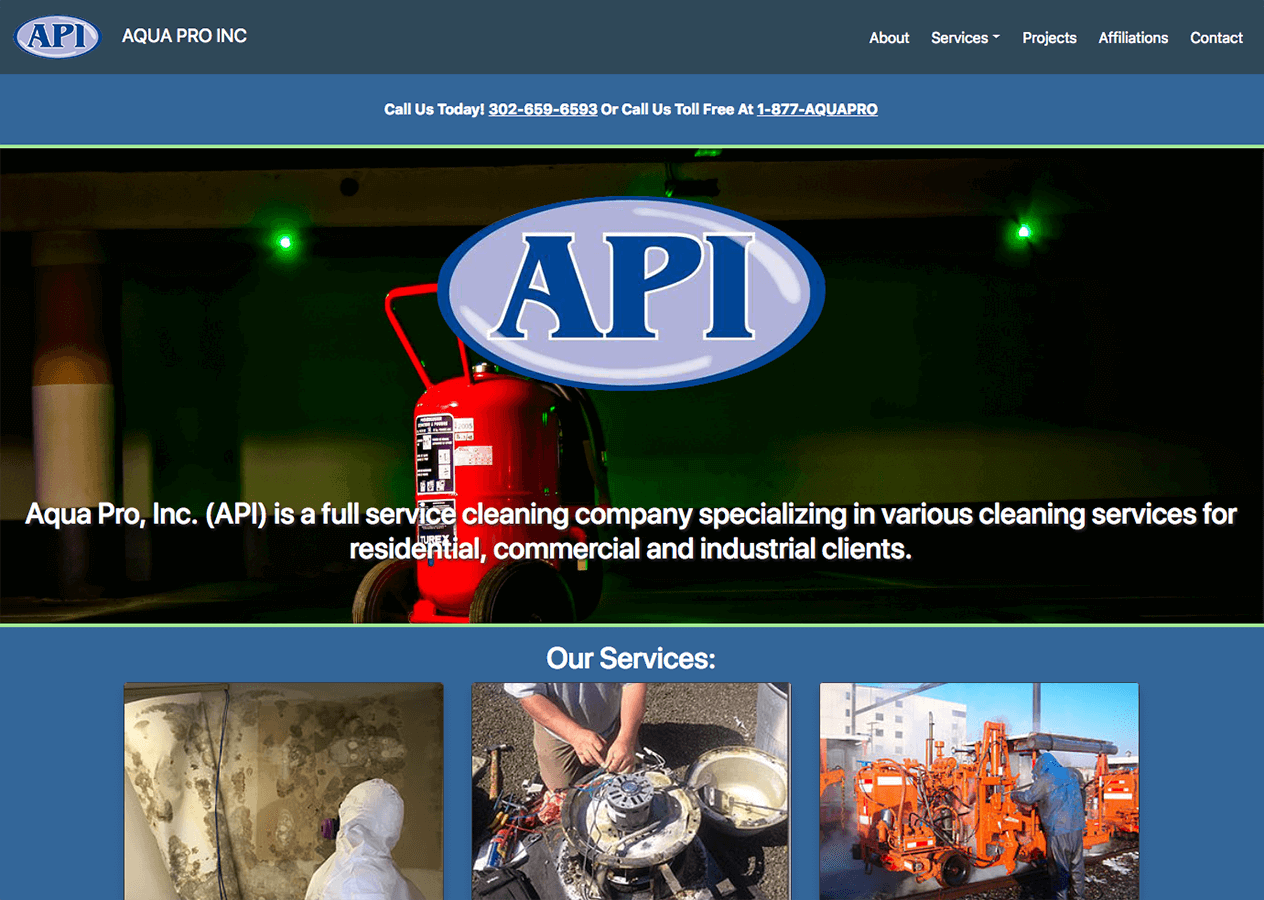
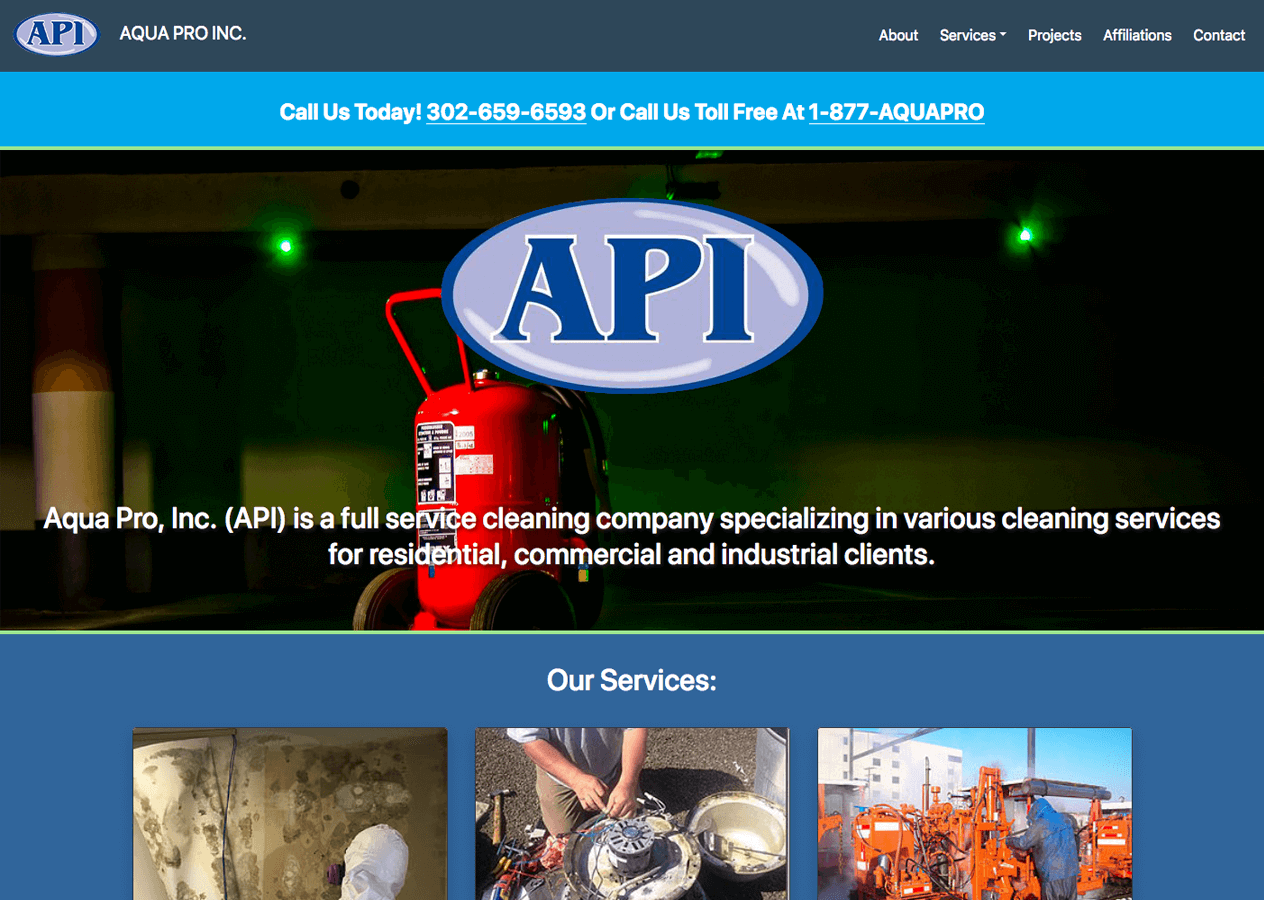
final code for beta release of website

diff --git a/style.css b/style.css
@@ -15,12 +15,12 @@ background: #336699;
 }
 body.page {
 background: #336699;
-overflow-y: visible;
+overflow-y: visible !important;
 }
 .subHeader {
 min-height: 81px;
 width: auto;
-background: #336699;
+background-color: rgba(23, 169, 232, 1);
 padding-top: 5px;
 margin-top: 81px;
 padding-bottom: 15px;
@@ -35,7 +35,8 @@ height: 60px;
 line-height: 54px;
 background: #2f4858;
 }
-.page .footer {
+.page .footer,
+.tag .footer {
 position: relative;
 width: 100%;
 height: 100px;
@@ -49,7 +50,8 @@ span.apiName {
 color: #fff;
 transition: 0.4s ease-in-out;
 }
-.page span.apiName {
+.page span.apiName,
+.tag span.apiName {
 font-size: 12px;
 }
 span.apiName:hover {
@@ -88,12 +90,12 @@ border-color: #014493;
 transition: 0.4s ease-in-out;
 }
 a[href^="tel:"] {
-color: #ffffff;
+color: #333;
 text-decoration: none;
 transition: 0.4s ease-in-out;
 }
 a[href^="tel:"]:hover {
-color: #ffcc00;
+color: #9ee493;
 transition: 0.4s ease-in-out;
 }
 .mobileHome {
@@ -119,7 +121,7 @@ margin-top: -25px;
 top: 0;
 }
 .intPage {
-min-height: 1000px;
+min-height: 850px;
 width: auto;
 padding: 15px;
 display: relative;
@@ -140,7 +142,6 @@ animation: fadein 5s;
 }
 @-webkit-keyframes fadein { from { opacity: 0; } to { opacity: 1; }}
 @-moz-keyframes fadein { from { opacity: 0; } to { opacity: 1; }}
-@-ms-keyframes fadein { from { opacity: 0; } to { opacity: 1; }}
 @-o-keyframes fadein { from { opacity: 0; } to { opacity: 1; }}
 @keyframes fadein { from { opacity: 0; } to { opacity: 1; }}
 img#apiLogo {
@@ -152,7 +153,6 @@ animation: fadein 3s;
 }
 @-webkit-keyframes fadein { from { opacity: 0; } to { opacity: 1; }}
 @-moz-keyframes fadein { from { opacity: 0; } to { opacity: 1; }}
-@-ms-keyframes fadein { from { opacity: 0; } to { opacity: 1; }}
 @-o-keyframes fadein { from { opacity: 0; } to { opacity: 1; }}
 @keyframes fadein { from { opacity: 0; } to { opacity: 1; }}
 /* =============== Bootstrap Overrides =============== */
@@ -192,7 +192,6 @@ transition: 0.4s ease-in-out;
 transition: 0.4s ease-in-out;
 color: #9ee493;
 }
-
 /* =============== FontAwesome styling =============== */
 .fa-facebook-square {
 transition: 0.4s ease-in-out;
@@ -238,6 +237,12 @@ font-size: inherit;
 .aboutExcerpt {
 min-height: 500px;
 }
+.callToday {
+font-size: 1.5rem;
+}
+.page p {
+font-size: 1.5rem;
+}
 .apiServices {
 margin-top: 40px;
 position: absolute;
@@ -270,7 +275,7 @@ margin-top: 40px;
 }}
 /* =============== Orientation Lock =============== */
 @media screen and (min-width: 320px) and (max-width: 767px) and (orientation: landscape) {
-html {
+html > .home {
 transform: rotate(-90deg);
 transform-origin: left top;
 width: 100vh;

diff --git a/functions.php b/functions.php
@@ -4,7 +4,7 @@
 function enqueue_bone_dry_scripts()
 {
     wp_enqueue_script('Ajax-Popper', 'https://cdnjs.cloudflare.com/ajax/libs/popper.js/1.14.3/umd/popper.min.js', false, null, true, null);
-    wp_enqueue_script('Bootstrap-4.1.1', 'https://stackpath.bootstrapcdn.com/bootstrap/4.1.1/js/bootstrap.min.js', array('jquery'), null, true, null);
+    wp_enqueue_script('Bootstrap-4.1.3', 'https://stackpath.bootstrapcdn.com/bootstrap/4.1.3/js/bootstrap.min.js', array('jquery'), null, true, null);
     wp_enqueue_script('font-awesome', 'https://use.fontawesome.com/releases/v5.1.0/js/all.js', false, null, null, false);
     wp_enqueue_script('bone-dry-scripts', get_template_directory_uri() . '/lib/js/bone-dry.js', array('jquery'), null, true, null);
 }
@@ -13,7 +13,7 @@ add_action('wp_enqueue_scripts', 'enqueue_bone_dry_scripts');
 //Load CSS
 function enqueue_bone_dry_styles()
 {
-    wp_enqueue_style('bootstrap-4.1.1', 'https://stackpath.bootstrapcdn.com/bootstrap/4.1.1/css/bootstrap.min.css', array(), null);
+    wp_enqueue_style('bootstrap-4.1.3', 'https://stackpath.bootstrapcdn.com/bootstrap/4.1.3/css/bootstrap.min.css', array(), null);
     wp_enqueue_style('bone-dry-styles', get_template_directory_uri() . '/style.css', array(), null);
 }
 add_action('wp_enqueue_scripts', 'enqueue_bone_dry_styles');
@@ -56,12 +56,12 @@ function tags_support_all()
 
 //Change WP Emails and email address away from "WordPress" as sender
 function boneDry_mail_name( $email ){
-  return 'Aqua Pro'; // new email name from sender.
+  return 'Aqua Pro Inc'; // new email name from sender.
 }
 add_filter( 'wp_mail_from_name', 'boneDry_mail_name' );
 
 function boneDry_mail_from ($email ){
-  return 'test@test.com'; // new email address from sender.
+  return 'aquaproinc@verizon.net'; // new email address from sender.
 }
 add_filter( 'wp_mail_from', 'boneDry_mail_from' );
 
@@ -108,10 +108,65 @@ add_filter('post_thumbnail_html', 'bootstrap_fluid_images', 10);
 function excerpt_read_more_link($output)
 {
     global $post;
-    return $output . '<a class="btn btn-lg btn-warning text-uppercase" href="' . get_permalink() . '">Read More <i class="fas fa-angle-double-right fa-fw fa-lg"></i></a>';
+    return $output . '<a class="btn btn-lg btn-api text-uppercase" href="' . get_permalink() . '">Read More <i class="fas fa-angle-double-right fa-fw fa-lg"></i></a>';
 }
 add_filter('the_excerpt', 'excerpt_read_more_link');
 //end blog page read more button
+
+//begin pagination
+function api_inc_pagination($pages = '', $range = 1)
+{
+    $showitems = ($range * 2) + 1;
+    
+    global $paged;
+    if (empty($paged))
+        $paged = 1;
+    
+    if ($pages == '') {
+        global $wp_query;
+        $pages = $wp_query->max_num_pages;
+        if (!$pages) {
+            $pages = 1;
+        }
+    }
+    
+    if (1 != $pages) {
+        echo "<nav aria-label='Blog Navigation pagination'>";
+        echo "<ul class='pagination justify-content-center'>";
+        echo "<li class='page-item'>";
+        if ($paged > 2 && $paged > $range + 1 && $showitems < $pages)
+            echo "<a class='page-link' aria-label='First Page' href='" . get_pagenum_link(1) . "'>
+                          <i class='fas fa-angle-double-left fa-lg'></i>
+                          <span class='sr-only'>go to first page</span>
+                      </a>";
+        echo "</li>";
+        echo "<li class='page-item'>";
+        if ($paged > 1 && $showitems < $pages)
+            echo "<a class='page-link' href='" . get_pagenum_link($paged - 1) . "'>
+                          <i class='fas fa-angle-left fa-lg'></i>
+                          <span class='sr-only'>go to previous page</span>
+                      </a>";
+        echo "</li>";
+        for ($i = 1; $i <= $pages; $i++) {
+            if (1 != $pages && (!($i >= $paged + $range + 1 || $i <= $paged - $range - 1) || $pages <= $showitems)) {
+                echo ($paged == $i) ? "<li class='page-link'>" . $i . "</li>" : "<a href='" . get_pagenum_link($i) . "' class='page-link' >" . $i . "</a>";
+            }
+        }
+        if ($paged < $pages && $showitems < $pages)
+            echo "<a class='page-link' aria-label='Next Page' href='" . get_pagenum_link($paged + 1) . "'>
+                          <i class='fas fa-angle-right fa-lg'></i>
+                          <span class='sr-only'>go to next page</span>
+                        </a>";
+        if ($paged < $pages - 1 && $paged + $range - 1 < $pages && $showitems < $pages)
+            echo "<a class='page-link' aria-label='Last Page' href='" . get_pagenum_link($pages) . "'>
+                          <i class='fas fa-angle-double-right fa-lg'></i>
+                          <span class='sr-only'>go to last page</span>
+                        </a>";
+        global $wp_query;
+        echo "</ul></nav>";
+    }
+}
+//end pagination
 
 /**
  * Disable the emoji's

diff --git a/header.php b/header.php
@@ -3,6 +3,24 @@
 	<head>
 		<meta charset="utf-8">
 		<meta name="viewport" content="width=device-width, initial-scale=1, shrink-to-fit=no">
+		<meta name="msvalidate.01" content="E4F5FA02C51943257359F1B364428943" />
+		<link rel="apple-touch-icon" sizes="57x57" href="<?php echo get_template_directory_uri(); ?>/lib/img/apple-icon-57x57.png">
+		<link rel="apple-touch-icon" sizes="60x60" href="<?php echo get_template_directory_uri(); ?>/lib/img/apple-icon-60x60.png">
+		<link rel="apple-touch-icon" sizes="72x72" href="<?php echo get_template_directory_uri(); ?>/lib/img/apple-icon-72x72.png">
+		<link rel="apple-touch-icon" sizes="76x76" href="<?php echo get_template_directory_uri(); ?>/lib/img/apple-icon-76x76.png">
+		<link rel="apple-touch-icon" sizes="114x114" href="<?php echo get_template_directory_uri(); ?>/lib/img/apple-icon-114x114.png">
+		<link rel="apple-touch-icon" sizes="120x120" href="<?php echo get_template_directory_uri(); ?>/lib/img/apple-icon-120x120.png">
+		<link rel="apple-touch-icon" sizes="144x144" href="<?php echo get_template_directory_uri(); ?>/lib/img/apple-icon-144x144.png">
+		<link rel="apple-touch-icon" sizes="152x152" href="<?php echo get_template_directory_uri(); ?>/lib/img/apple-icon-152x152.png">
+		<link rel="apple-touch-icon" sizes="180x180" href="<?php echo get_template_directory_uri(); ?>/lib/img/apple-icon-180x180.png">
+		<link rel="icon" type="image/png" sizes="192x192"  href="<?php echo get_template_directory_uri(); ?>/lib/img/android-icon-192x192.png">
+		<link rel="icon" type="image/png" sizes="32x32" href="<?php echo get_template_directory_uri(); ?>/lib/img/favicon-32x32.png">
+		<link rel="icon" type="image/png" sizes="96x96" href="<?php echo get_template_directory_uri(); ?>/lib/img/favicon-96x96.png">
+		<link rel="icon" type="image/png" sizes="16x16" href="<?php echo get_template_directory_uri(); ?>/lib/img/favicon-16x16.png">
+		<link rel="manifest" href="<?php echo get_template_directory_uri(); ?>/lib/img/manifest.json">
+		<meta name="msapplication-TileColor" content="#ffffff">
+		<meta name="msapplication-TileImage" content="<?php echo get_template_directory_uri(); ?>/lib/img/ms-icon-144x144.png">
+		<meta name="theme-color" content="#ffffff">
 		<?php wp_head(); ?>
 	</head>
 	<body <?php body_class(); ?>>
@@ -36,7 +54,7 @@
 		<aside>
 		<div class="subHeader">
 			<div class="container">
-				<p class="text-center pt-4 h6 text-white">
+				<p class="text-center pt-4 h6 text-white callToday">
 					<strong>Call Us Today! <a href="tel:302.659.6953"><u>302-659-6593</u></a> Or Call Us Toll Free At <a href="tel:877.278.2776"><u>1-877-AQUAPRO</u></a></strong> 
 				</p>
 			</div>

diff --git a/footer.php b/footer.php
@@ -1,6 +1,6 @@
 	<footer class="footer">
 		<div class="container">
-			<span class="text-white"><a href="https://www.facebook.com/aquaproinc302" target="_blank"><i class="fab fa-facebook-square fa-lg mr-4"></i></a><a href="https://twitter.com/aquaproinc302" target="_blank"><i class="fab fa-twitter-square fa-lg mr-4"></i></a><a href="" target="_blank"><i class="fab fa-linkedin fa-lg mr-2"></i></a> <small class="xtraSmall">&copy; <?php echo date('Y'); ?> Aqua Pro Inc. | <a class="pplink" href="">Privacy Policy</a></small></span>
+			<span class="text-white"><a href="https://www.facebook.com/aquaproinc302" target="_blank"><i class="fab fa-facebook-square fa-lg mr-4"></i></a><a href="https://twitter.com/aquaproinc302" target="_blank"><i class="fab fa-twitter-square fa-lg mr-4"></i></a><!-- <a href="" target="_blank"><i class="fab fa-linkedin fa-lg mr-2"></i></a> --> <small class="xtraSmall">&copy; <?php echo date('Y'); ?> Aqua Pro Inc. | <a class="pplink" href="">Privacy Policy</a></small></span>
 			<a target="_blank" href="https://benkaminski.com"><div class="fadehover text-right d-none d-md-block"><img src="<?php echo get_template_directory_uri(); ?>/lib/img/kaminski-consulting-dark.png" class="img-fluid a" alt="Website Design by Benjamin Kaminski Consulting" /><img src="<?php echo get_template_directory_uri(); ?>/lib/img/kaminski-consulting.png" class="img-fluid b" alt="Website Design by Benjamin Kaminski Consulting" /></div></a>
 		</div>
 	</footer>

diff --git a/tag.php b/tag.php
@@ -1,0 +1,32 @@
+<?php get_header(); ?>
+<div class="container intPage">
+	<div class="alert alert-success mt-3">
+		<h4 class="text-uppercase text-center">
+			<?php printf( __( 'Content Tagged With: %s', 'crafted_brew' ), '<span>' . get_search_query() . '</span>' ); ?>
+			<em>&ldquo;<?php single_tag_title(); ?>&rdquo;</em>
+		</h4>
+	</div>
+	<div class="row mt-5">
+		<?php if ( have_posts() ) : while ( have_posts() ) : the_post(); ?>
+		<div class="col-md-12 mb-4">
+			<main>
+				<h1>
+					<a href="<?php the_permalink(); ?>" title="<?php the_title_attribute(); ?>">
+						<?php the_title(); ?>
+						
+					</a>
+				</h1>
+					<?php the_excerpt(); ?>
+				
+				<hr />
+			</main>
+		</div>
+		<?php endwhile; else : ?>
+			<p><?php esc_html_e( 'Sorry, no posts matched your criteria.' ); ?></p>
+		<?php endif; ?>
+		<div class="col">
+			<?php echo api_inc_pagination(); ?>
+		</div>
+	</div>
+</div>
+<?php get_footer(); ?>

diff --git a/lib/inc/projects-carousel.php b/lib/inc/projects-carousel.php
@@ -1,0 +1,13 @@
+<div id="apiCarouselFade" class="carousel slide carousel-fade shadow" data-ride="carousel">
+    <div class="carousel-inner">
+        <div class="carousel-item active">
+            <img class="d-block w-100" src="https://apicancleanit.com/wp-content/uploads/2018/08/api-mold-remediation.png" alt="Mold Remediation">
+        </div>
+        <div class="carousel-item">
+            <img class="d-block w-100" src="https://apicancleanit.com/wp-content/uploads/2018/08/api-environmental-cleaning-services.png" alt="Environmental Services">
+        </div>
+        <div class="carousel-item">
+            <img class="d-block w-100" src="https://apicancleanit.com/wp-content/uploads/2018/08/api-pro-steam-cleaning-services.png" alt="Pressure Washing and Steam Cleaning">
+        </div>
+    </div>
+</div>

diff --git a/services.php b/services.php
@@ -55,7 +55,7 @@ get_header(); ?>
                                 <p class="card-text">Water Damage can strike at any time and usually when you least expect it.  Whether your water damage situation is from flood waters courtesy of Mother Nature, or broken water lines and faulty plumbing...</p>
                             </div>
                             <div class="card-footer">
-                                <a href="mold-water-damage/" class="btn btn-api">Read More <i class="fas fa-angle-double-right ml-2"></i></a>
+                                <a href="water-damage/" class="btn btn-api">Read More <i class="fas fa-angle-double-right ml-2"></i></a>
                             </div>
                     </div>
                     <div class="card border-dark shadow">

diff --git a/projects.php b/projects.php
@@ -9,8 +9,11 @@
 get_header(); ?>
 	<div class="container">
 		<div class="intPage">
-			<h1><?php echo the_title(); ?></h1>
-
+			<h1 class="mb-4"><?php echo the_title(); ?></h1>
+				<div class="col">
+					<p>Here are some "on the job" pictures we have collected over the years that help visualize the type of work API performs. We love getting dirty to help you get clean!</p>
+					<?php include get_template_directory() . '/lib/inc/projects-carousel.php'; ?>
+				</div>
 		</div>
 	</div>
 <?php get_footer(); ?>

diff --git a/page.php b/page.php
@@ -1,10 +1,10 @@
 <?php get_header(); ?>
 	<div class="container">
 		<div class="intPage">
-			<h1><?php echo the_title(); ?></h1>
+			<h1 class="mb-4"><?php echo the_title(); ?></h1>
 			<?php if ( have_posts() ) : while ( have_posts() ) : the_post(); ?>
 				<figure>
-				<?php the_post_thumbnail( 'full', array( 'class' => 'mx-auto d-block' ) ); ?>
+				<?php the_post_thumbnail( 'full', array( 'class' => 'mx-auto d-block img-thumbnail' ) ); ?>
 						
 				</figure>
 
